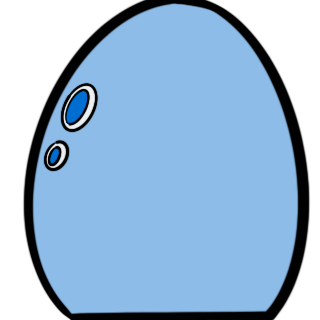
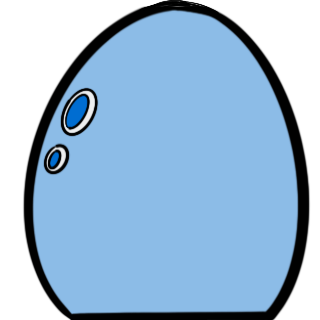
Ajoute la bubble suit

diff --git a/Assets/Scripts/Player.cs b/Assets/Scripts/Player.cs
@@ -16,6 +16,7 @@ public class Player : MonoBehaviour
     [SerializeField] private float velocity = 20;
     [SerializeField] private LayerMask groundLayer;
 
+    private bool hasBubbleSuit = false;
     private Vector2 move = Vector2.zero;
     private bool isClimbing = false;
     private GameObject ladder = null;
@@ -62,6 +63,10 @@ public class Player : MonoBehaviour
 
         animator.SetFloat("Running Velocity", Mathf.Abs(rigidbody2D.velocity.x));
         animator.SetFloat("Climbing Velocity", Mathf.Abs(rigidbody2D.velocity.y));
+
+        if (Input.GetKeyDown(KeyCode.B)) {
+            EquipBubbleSuit(!hasBubbleSuit);
+        }
     }
 
     void FixedUpdate()
@@ -174,6 +179,14 @@ public class Player : MonoBehaviour
             Vector2 newVelocity = rigidbody2D.velocity;
             newVelocity.y = 0;
             rigidbody2D.velocity = newVelocity;
+        }
+    }
+
+    private void EquipBubbleSuit(bool equip)
+    {
+        if (equip != hasBubbleSuit) {
+            hasBubbleSuit = equip;
+            transform.Find("Bubble Sprite").gameObject.SetActive(equip);
         }
     }
 }
